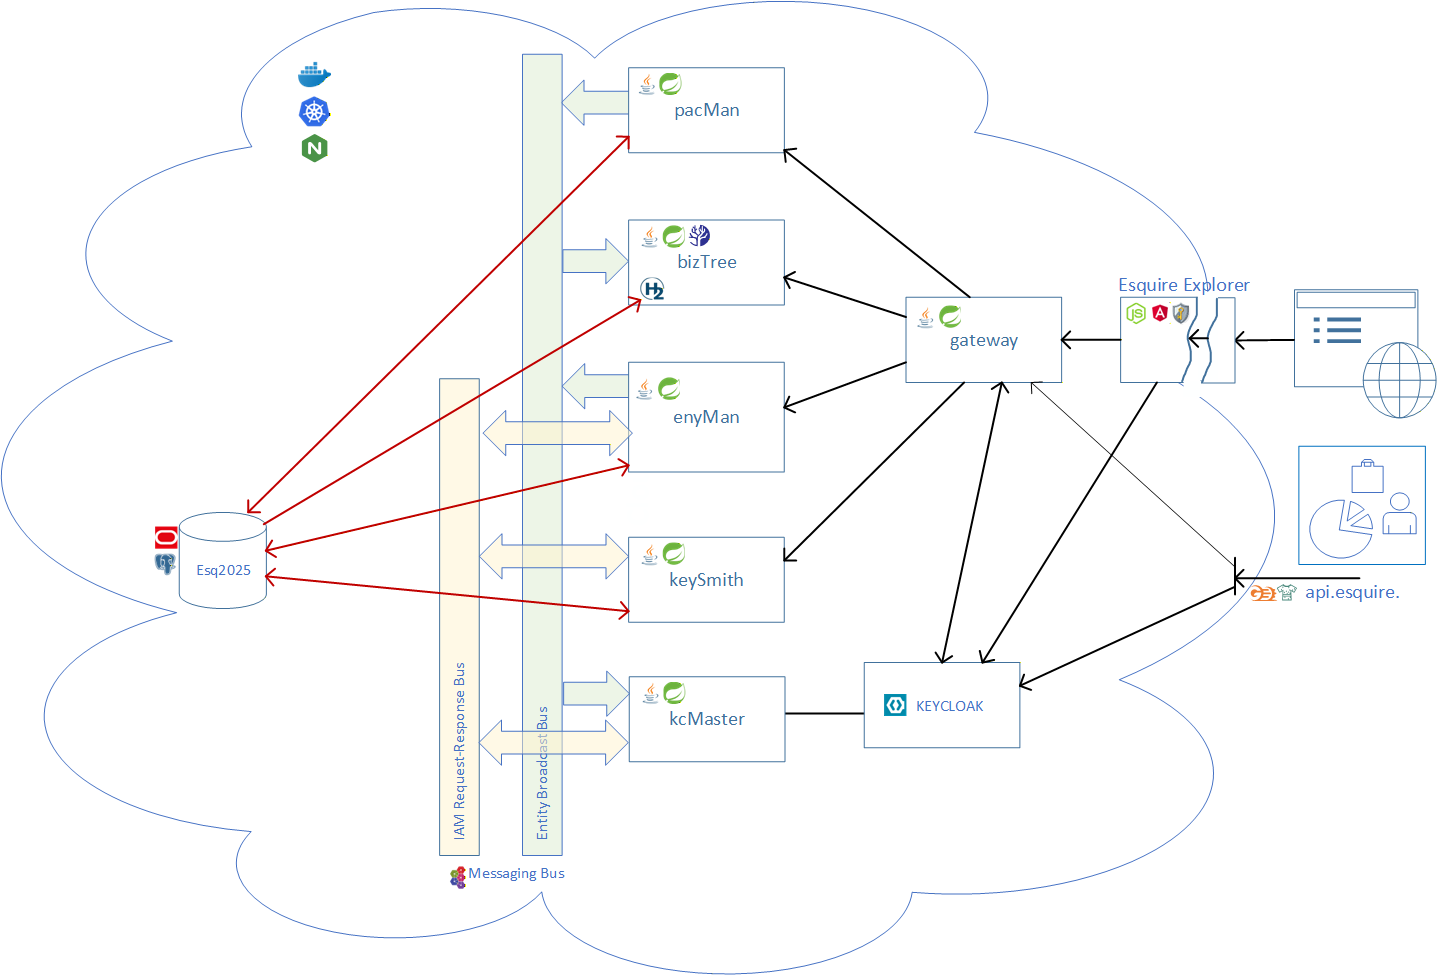
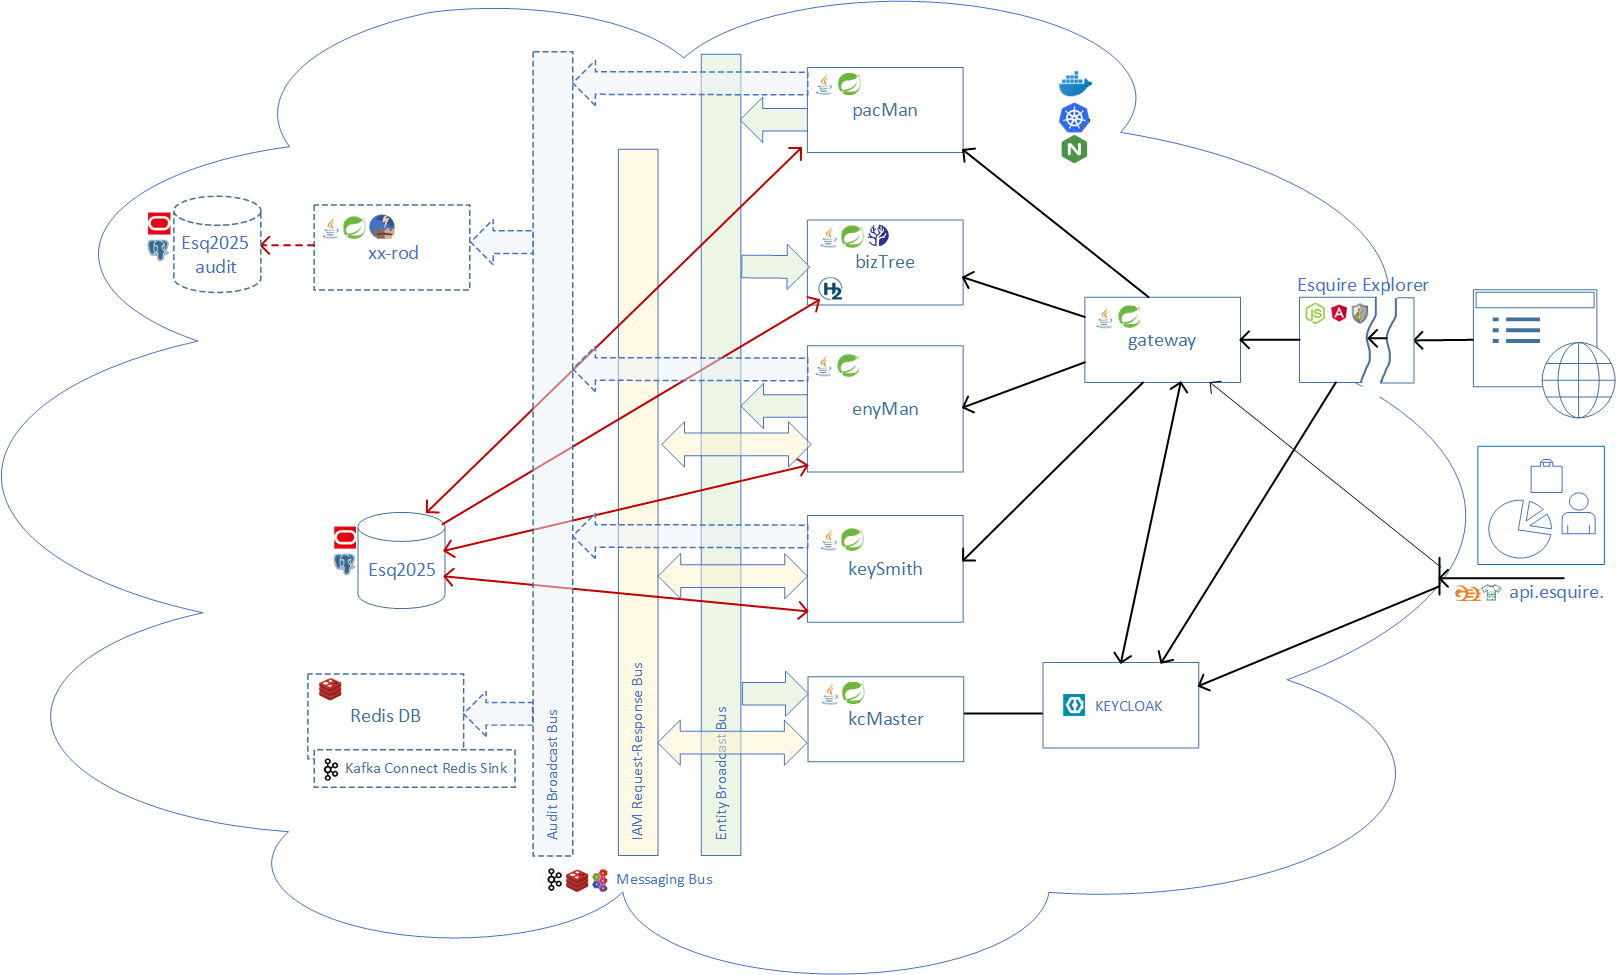
v1.2.7-2606.1000  v1.2.7 landing-page audit refresh + e2e account-pick fix

diff --git a/frontend/src/explorer/flatTree/app-shell.html b/frontend/src/explorer/flatTree/app-shell.html
@@ -297,13 +297,14 @@
               is not permitted to edit.
             </p>
 
-            <h3>3. Audit trail as a first-class database citizen</h3>
+            <h3>3. Audit trail as a first-class, pluggable concern</h3>
             <p>
-              Every write to every entity table carries a correlation ID, request ID, and the acting user ID.
-              BRIUD triggers on every entity table maintain a complete audit log without the application
-              layer having to remember to write it. Audit entries are tied to distributed tracing correlation
-              IDs, making it possible to reconstruct exactly what sequence of operations produced any given
-              database state.
+              Every write to every entity carries a correlation ID, request ID, and the acting user ID, so
+              audit entries tie back to distributed-tracing correlation IDs &mdash; making it possible to
+              reconstruct exactly what sequence of operations produced any given database state. Audit logging
+              itself is <strong>optional and pluggable</strong>: a deployment picks from a wide set of models
+              &mdash; from in-database triggers to a fully decoupled, message-driven pipeline &mdash; or turns
+              it off entirely, with no application-code change.
             </p>
 
             <h3>4. Accounting as the demo business model</h3>
@@ -425,7 +426,7 @@
               </tr>
               <tr><td>Hierarchical entity tree (domain-agnostic)</td><td>Yes</td><td>Partial</td><td>No</td><td>No</td><td>Partial</td></tr>
               <tr><td>Server-driven UI</td><td>Yes</td><td>No</td><td>No</td><td>No</td><td>No</td></tr>
-              <tr><td>Audit trail / BRIUD triggers</td><td>Yes</td><td>Yes</td><td>No</td><td>No</td><td>No</td></tr>
+              <tr><td>Audit trail (pluggable, optional)</td><td>Yes</td><td>Yes</td><td>No</td><td>No</td><td>No</td></tr>
               <tr><td>Distributed trace correlation</td><td>Yes</td><td>No</td><td>No</td><td>No</td><td>No</td></tr>
               <tr><td>Microservices + async messaging</td><td>Yes</td><td>Partial</td><td>Yes</td><td>No</td><td>No</td></tr>
               <tr><td>Field-level permission enforcement</td><td>Yes</td><td>Partial</td><td>No</td><td>No</td><td>No</td></tr>
@@ -442,7 +443,7 @@
         <!-- Tab 6: Architecture -->
         <mat-tab label="Architecture">
           <div class="landing-tab-content">
-            <h2>Current Architecture (v1.2.6) </h2>
+            <h2>Current Architecture (v1.2.7) </h2>
             <img class="arch-diagram" src="/img/ComponentModel.png" alt="Esquire Component Model"/>
 
             <p>
@@ -455,14 +456,21 @@
 
             <h3>Esq2025</h3>
             <p>The database (Oracle or Postgres); persistent store for all entity data, transactions,
-               permissions, audit log, and configuration parameters.</p>
+               permissions, configuration parameters, and the audit log (when triggers are enabled).</p>
+
+            <h3>Esq2025 audit</h3>
+            <p>Optional; a separate database (Oracle or Postgres) holding the entity audit log
+               (<code>*_log</code> tables), so audit writes never touch the operational Esq2025.</p>
 
             <h3>Messaging Bus</h3>
-            <p>ActiveMQ broker; two logical channels:
+            <p>ActiveMQ broker; three logical channels (the third added in v1.2.7, optional):
                the IAM Request-Response Bus carries identity commands from keySmith to kcMaster and
                acknowledgement replies back;
                the Entity Broadcast Bus carries entity change events published by enyMan and pacMan
-               to bizTree and other interested consumers.</p>
+               to bizTree and other interested consumers;
+               the Audit Broadcast Bus (optional, off by default) carries each committed change event
+               from the entity-updating services (enyMan, pacMan, keySmith) to the audit sink &mdash;
+               transport vendors: ActiveMQ, Kafka, or Redis.</p>
 
             <h3>pacMan — Personal Account Manager</h3>
             <p>The accounting service; manages account balance operations: deposit, withdrawal,
@@ -472,7 +480,7 @@
             <h3>bizTree</h3>
             <p>The entity tree service; maintains an in-memory cache of the business entity tree;
                serves tree navigation to the frontend; stays current by consuming the broadcast bus.
-               As of v1.2.5 it is a <strong>recoverable cache service</strong>: a two-buffer
+               It is a <strong>recoverable cache service</strong>: a two-buffer
                anti-entropy design whose background &ldquo;night-watch&rdquo; periodically rebuilds a
                shadow copy from the database, compares the two, and self-heals any drift &mdash; so an
                event missed while the service was down is reconciled automatically, with no restart.</p>
@@ -490,6 +498,15 @@
             <p>Keycloak sync coordinator; the only service that writes to Keycloak IAT directly; consumes
                identity commands from the IAM bus and executes create / update / delete in the IAM. Also
                listens on the entity broadcast bus to keep a moved entity's Keycloak path in sync.</p>
+
+            <h3>xx-rod</h3>
+            <p>Optional (v1.2.7); the audit consumer service that drains the Audit Broadcast Bus and writes
+               the <code>*_log</code> tables.</p>
+
+            <h3>Redis DB</h3>
+            <p>Optional (v1.2.7); the alternative non-SQL (document-DB) audit sink &mdash; the Redis stream
+               itself holds the audit trail (the stream is the log). Feeding it from the Kafka transport needs
+               one extra component, a Kafka Connect Redis Sink.</p>
 
             <h3>gateway</h3>
             <p>Spring Cloud Gateway; the API router; routes requests to the appropriate backend

diff --git a/e2e-test/tests/11-deposit.spec.ts b/e2e-test/tests/11-deposit.spec.ts
@@ -10,7 +10,10 @@ test.describe.serial('accounting lifecycle: deposit → withdrawal → transfer 
     page = await ctx.newPage();
     await keycloakLogin(page);
     await navigateTo(page, 'Company', 'All merchants', 'Mer Chant');
-    const accountRow = page.locator('tr[mat-row]').first();
+    // Select the account by ID, not .first(): account-row ordering is NOT deterministic across
+    // backends (on k8s the list returned a different order than Docker), so .first() picked the
+    // wrong account. 10011 is the account the chain deposits/withdraws/transfers from.
+    const accountRow = page.locator('tr[mat-row]:has-text("10011")').first();
     await accountRow.waitFor({ timeout: 5000 });
     await accountRow.click();
     await accountRow.focus();
@@ -151,7 +154,9 @@ test.describe.serial('accounting lifecycle: deposit → withdrawal → transfer 
     await page.locator('tr[mat-row]:has-text("All clients")').first().dblclick();     // → All clients
     await page.locator('tr[mat-row]:has-text("Cli Ent")').first().waitFor({ timeout: 5000 });
     await page.locator('tr[mat-row]:has-text("Cli Ent")').first().dblclick();         // → Cli Ent
-    const accountRow = page.locator('tr[mat-row]').first();
+    // 10012 by ID, not .first(): the Cli Ent list returned 10013 (0.00 balance) first on k8s, so
+    // .first() made the withdrawal fail with "Insufficient balance" and stack an error dialog.
+    const accountRow = page.locator('tr[mat-row]:has-text("10012")').first();
     await accountRow.waitFor({ timeout: 5000 });
     await accountRow.click();
 

diff --git a/frontend/src/explorer/flatTree/app-shell.scss b/frontend/src/explorer/flatTree/app-shell.scss
@@ -229,7 +229,7 @@
 
   .arch-diagram {
     width: 100%;
-    max-width: 700px;
+    max-width: 860px;
     display: block;
     margin: 0 auto 28px;
     border: 1px solid rgba(0, 0, 0, 0.08);
